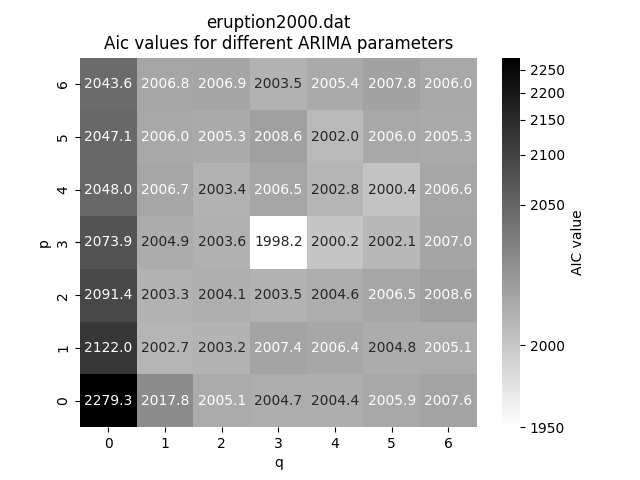
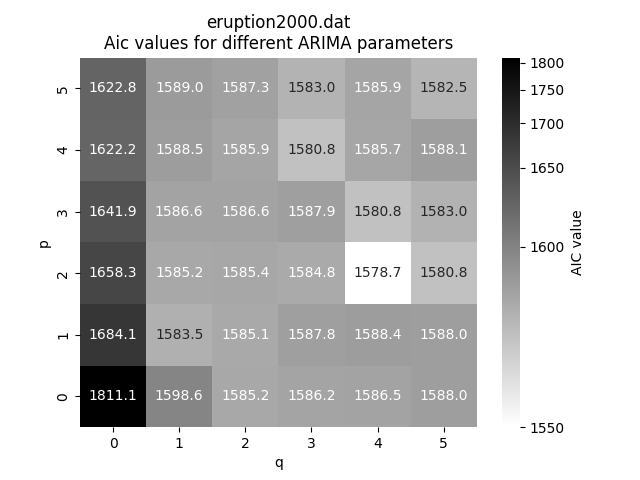
Add out-of-sample ARIMA predictions

diff --git a/Part1/part1.py b/Part1/part1.py
@@ -38,45 +38,49 @@ for dataset_name, dataset in data.items():
 ### ARIMA part:
 for name, xV in data.items():
 
+    xV_train, xV_test = split_dataset(xV, 0.8)
     ### Fit many ARIMA models (first difference) and choose best
     ### depending on aic value
     d=1
-    best_model, aic_values = batch_arima_test(xV, p_min=0, p_max=6,
-                        q_min=0, q_max=6, d=d,
+    best_model, aic_values = batch_arima_test(xV_train, p_min=0, p_max=5,
+                        q_min=0, q_max=5, d=d,
                         show=True, name=name)
     plot_aic_grid(aic_values, name, "plots")
 
     ### Get in-sample predictions (T indicates how many time-steps
     ### ahead to predict)
     T_list = [1, 2, 3, 4, 5]
-    predM = in_sample_predict_ahead(xV, best_model, T_list)
+    predM = in_sample_predict_ahead(xV_train, best_model, T_list)
 
-
+    
     ### Start plotting summary!
     fig = plt.figure(figsize=(12,8))
-    fig.suptitle(name, fontsize=16)
+    fig.suptitle(f'{name} ISP', fontsize=16)
 
     ### Plot true & 1-ahead prediction
     plt.subplot(3,1,1)
-    plt.plot(xV)
+    plt.plot(xV_train)
     plt.plot(predM[0], linestyle='dashed',linewidth=0.9)
     p = len(best_model.arparams)
     q = len(best_model.maparams)
-    err = nrmse(xV, predM[0])
+    err = nrmse(xV_train, predM[0])
     plt.title(f"Fitted ARIMA model: ({p},{d},{q})\nNRMSE={err:.4f}")
+
+    ### Print nrmse:
+    for i, T in enumerate(T_list):
+        print(f"T={T} NRMSE: { nrmse(xV_train, predM[i])}")
 
     ### Plot true & more that 1-ahead predictions
     plt.subplot(3,1,2)
-    plt.plot(xV)
+    plt.plot(xV_train)
     for _xV in predM[1:]:
         plt.plot(_xV, linestyle='dashed',linewidth=0.9)
     T_string = ", ".join(map(str, T_list[1:]))
     plt.title(f"Predict ahead for {T_string} time steps")
 
-
     ### Plot residuals
     plt.subplot(3,3,7)
-    resid = xV - predM[0]
+    resid = xV_train - predM[0]
     resid = resid[~np.isnan(resid)]
     plt.scatter(np.arange(len(resid)), resid)
     plt.title("Residuals")
@@ -99,3 +103,47 @@ for name, xV in data.items():
     plt.savefig("plots/"+name+"_predictions.png")
     plt.show()
 
+    
+
+
+
+
+    ### Out of sample
+    predV_OOS = out_of_sample_predict_ahead(xV_test, best_model)
+
+    fig = plt.figure(figsize=(12,8))
+    fig.suptitle(f'{name} OOSP', fontsize=16)
+
+    ### Plot true & 1-ahead prediction
+    plt.subplot(3,1,1)
+    plt.plot(xV_test)
+    plt.plot(predV_OOS, linestyle='dashed',linewidth=0.9)
+    p = len(best_model.arparams)
+    q = len(best_model.maparams)
+    err = nrmse(xV_test, predV_OOS)
+    plt.title(f"Fitted ARIMA model: ({p},{d},{q})\nNRMSE={err:.4f}")
+
+    ### Plot residuals
+    plt.subplot(3,1,2)
+    resid = xV_test - predV_OOS
+    resid = resid[~np.isnan(resid)]
+    plt.scatter(np.arange(len(resid)), resid)
+    plt.title("Residuals")
+    ### (Make y axis limits symmetric)
+    y_bound = np.max(np.abs(plt.ylim()))
+    plt.ylim(-y_bound, y_bound)
+
+    ### Plot residuals autocorrelation
+    ax = plt.subplot(3,2,5)
+    plot_pacf(resid, zero=False, lags=10, ax=ax, method='ywm')
+    plt.title("Residuals PACF")
+
+    ### Plot residuals partial autocorrelation
+    ax = plt.subplot(3,2,6)
+    plot_acf(resid, zero=False, lags=10, ax=ax)
+    plt.title("Residuals ACF")
+
+    ### Save summary plot
+    plt.tight_layout()
+    plt.savefig("plots/"+name+"_OOS_predictions.png")
+    plt.show()

diff --git a/Part2/utilities.py b/Part2/utilities.py
@@ -182,33 +182,34 @@ def plot_correlation_dimension_2(xV, m_max = 10, rmin=0.1, rmax=100, name = None
     debug_dataM = []
     corr_dimM = []
     dim = np.arange(1, m_max + 1)
-    rvals = np.logspace(np.log(rmin), np.log(rmax), 50)
+    rvals = np.logspace(np.log10(rmin), np.log10(rmax), 30)
     for m in dim:
         corr_dim, debug_data = nolds.corr_dim(xV, emb_dim=m, rvals=rvals, debug_data=True)
         debug_dataM.append(debug_data)
         corr_dimM.append(corr_dim)
 
-    fig, ax = plt.subplots(3, 1, figsize=(10, 8))
+    fig, ax = plt.subplots(3, 1, figsize=(6, 8))
+    plt.suptitle(f'Estimating correlation dimension ({name})')
+
     for i, debug_data in enumerate(debug_dataM):
-        rvals = debug_data[0] #values used for log(r)
+        # rvals = debug_data[0] #values used for log(r)
         csums = debug_data[1] #the corresponding log(C(r))
         poly = debug_data[2] #line coefficients ([slope, intercept])
         ax[0].plot(rvals, csums, label=f'm={i+1}')
-        ax[2].plot(rvals[1:], np.diff(csums)/np.diff(rvals), label=f'm={i+1}')
+        ax[1].plot(rvals[1:], np.diff(csums)/np.diff(rvals), label=f'm={i+1}')
         # poly_y = [poly[0] * xi + poly[1] for xi in rvals]
         # ax[0].plot(rvals, poly_y, label=f'POLYY m={i+1}')
 
     ax[0].set_xlabel('log(r)')
     ax[0].set_xscale("log")
     ax[0].set_ylabel('log(C(r))')
-    ax[1].plot(dim, corr_dimM, label='v')
-    ax[1].set_xlabel('m')
-    ax[1].set_ylabel('v')
-    ax[2].set_xlabel('log(r)')
-    ax[2].set_xscale("log")
-    ax[2].set_ylabel('slope')
-    plt.title(f'Local $D_2$ vs $r$ for {name}')
-    plt.legend()
+    ax[1].set_xlabel('log(r)')
+    ax[1].set_xscale("log")
+    ax[1].set_ylabel('slope')
+    ax[2].plot(dim, corr_dimM, label='v')
+    ax[2].set_xlabel('m')
+    ax[2].set_ylabel('v')
+    ax[1].legend()
     plt.tight_layout()
     plt.savefig(f"./Part2/plots/cordim2_{name}.png")
     plt.show()
@@ -285,3 +286,17 @@ def localpredictnrmse(xV, nlast, m, tau=1, Tmax=1, nnei=1, q=0, show=True, times
         plt.close()
 
     return nrmseV, preM
+
+
+def ARIMA_out_of_sample_predict_ahead(xV_test, model, T_list=[1]):
+    '''
+    Get out-of-sample T-timestep ahead predictions for every T in T_list
+    '''
+    predV = np.full(len(xV_test), fill_value=np.nan)
+    for t in range(len(xV_test)):
+        # Forecast the next datapoint
+        predV[t] = model.forecast(1)
+        # Append the next datapoint to the model's data
+        model = model.append([xV_test[t]], refit=False)
+
+    return predV

diff --git a/Part2/part2.py b/Part2/part2.py
@@ -48,10 +48,10 @@ m = {"complete_dataset": 5, "small_dataset": 4}
 for name, dataset in data.items():
 
     # This doesn't work well for large m
-    plot_correlation_dimension(dataset, tau[name], m_max=5, name = name)
+    plot_correlation_dimension(dataset, tau[name], m_max=3, name = name)
 
     # This works fine but assumes tau=1
-    plot_correlation_dimension_2(dataset, m_max=10, rmin=0.5, rmax=10, name = name)
+    plot_correlation_dimension_2(dataset, m_max=10, rmin=1.5, rmax=50, name = name)
 
     correlationdimension(dataset, m_max=10, show=True, name=name)
 
@@ -146,18 +146,18 @@ for name, dataset in data.items():
     n = len(dataset)
     train, test = dataset[:int(0.8 * n)], dataset[int(0.8*n):n]
 
-    model = ARIMA(train, order=(3, 1, 3)).fit()
-    pred = model.forecast(test.shape[0])
+    model = ARIMA(train, order=(1, 1, 1)).fit()
+    pred = ARIMA_out_of_sample_predict_ahead(test, model)
 
     # plot
     fig = plt.figure(figsize=(12,8))
     fig.suptitle(name, fontsize=16)
 
     plt.subplot(3, 1, 1)
-    plt.plot(np.arange(int(0.8 * n), n), pred, label='predictions')
     plt.plot(np.arange(int(0.8 * n), n), test, label='true values')
+    plt.plot(np.arange(int(0.8 * n), n), pred, label='predictions')
     nrmse_string = "{:.4f}".format(nrmse(test, pred))
-    plt.title(f"ARIMA (p=3, d=1, q=3) NRMSE={nrmse_string}")
+    plt.title(f"ARIMA(1,1,1), NRMSE={nrmse_string}")
     plt.legend()
 
     # Plot residuals
@@ -180,6 +180,7 @@ for name, dataset in data.items():
     plot_acf(resid, zero=False, lags=10, ax=ax)
     plt.title("Residuals ACF")
 
+    plt.tight_layout()
     plt.savefig(f"Part2/plots/arima_test_{name}.png")
     plt.show()
     plt.close()

diff --git a/Part1/utilities.py b/Part1/utilities.py
@@ -127,3 +127,16 @@ def in_sample_predict_ahead(xV, model, T_list=[1]):
         predM.append(predV)
     return predM
 
+
+def out_of_sample_predict_ahead(xV_test, model, T_list=[1]):
+    '''
+    Get out-of-sample T-timestep ahead predictions for every T in T_list
+    '''
+    predV = np.full(len(xV_test), fill_value=np.nan)
+    for t in range(len(xV_test)):
+        # Forecast the next datapoint
+        predV[t] = model.forecast(1)
+        # Append the next datapoint to the model's data
+        model = model.append([xV_test[t]], refit=False)
+
+    return predV
